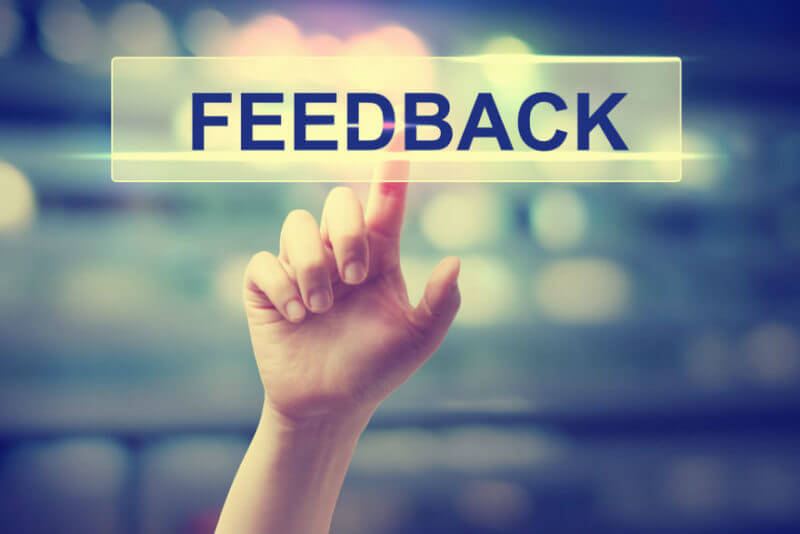
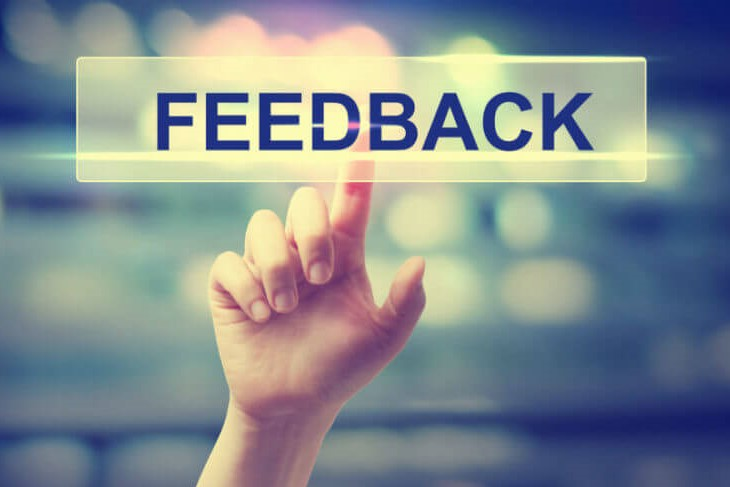
feedback rebuild

diff --git a/styles/style.css b/styles/style.css
@@ -186,8 +186,6 @@ h3{
 /* Andriaus stiliaus kodas: */
 
 
-
-
 .card{
     
     border: 5px solid rgb(0, 0, 0);
@@ -228,3 +226,46 @@ margin-top: 100px;
 }
 
   
+/* Povilo kodas */
+
+.feedback img 
+{
+    width: 100%;
+    
+    
+}
+
+.db_results 
+{
+    border:  2px solid #025a5a; ; 
+    border-style: dotted;
+    border-collapse: collapse;
+    
+
+} 
+input[type=text] 
+{
+  width: 80%;
+  padding: 12px 20px;
+  margin: 8px 0;
+  box-sizing: border-box;
+  /* color: #025a5a; */
+  font-size: large;
+  
+}
+
+#feedback_form label {
+
+ 
+    font-size: 20px;
+    color: #025a5a;
+
+}
+
+#feedback_form {
+
+ 
+    border-collapse: collapse;
+    
+
+}

diff --git a/feedback.php b/feedback.php
@@ -1,7 +1,9 @@
 <?php include "header.php" ?>
 <!-- Netrinam! -->
 
-<div class="col s12 m6 l3 center-align responsive-img">
+<div class="container"> 
+
+<div class="feedback col s12 m6 l3 center-align responsive-img">
     <img src="images/feedback.jpg" alt="feedback nuotrauka">
 </div>
 
@@ -66,18 +68,8 @@
     }
     $conn->close();
     ?>
+</div>
 
-<style> 
-input[type=text] {
-  width: 100%;
-  padding: 12px 20px;
-  margin: 8px ;
-  box-sizing: border-box;
-  
-}
-</style>
-
-<body>
 
 <p class="c-align"></p>
 
@@ -86,14 +78,20 @@ input[type=text] {
   <input type="textData" id="Data" name="Data"> -->
   <label for="lname">Name</label>
   <input type="Name" id="name" name="Name">
+  
   <label for="Age">Your age</label>
   <input type="int" id="Age" name="Age">
+  <br>
   <br><label for="lname">Please enter Your feedback! </label>
   <input type="text" id="feedback_text" name="feedback_text"> <br>
 
-  <button>Submit <!DOCTYPE html></button>
+  <button>Submit! <!DOCTYPE html></button>
 </form>
 
+</div>
+<br>
+
+<br>
 
 <?php include "footer.php" ?>
 <!-- Netrinam! -->
